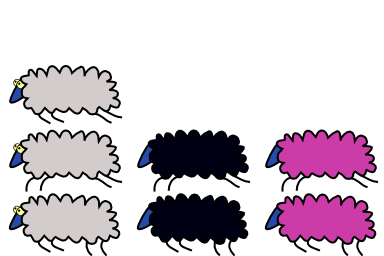
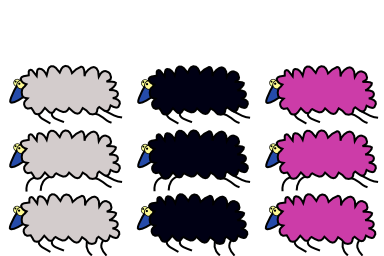
sheep jump and bump over and on a green wall. Counters on top just counts sheep that get from one side to the other. TODO: gameplay 8|

diff --git a/view.py b/view.py
@@ -25,15 +25,19 @@ class View:
         self.buttonUpSurf = pygame.image.load('arrowbutton.png')
         self.buttonDownSurf = pygame.transform.flip(self.buttonUpSurf, False, True)
 
+        self.wallSurf = pygame.image.load('wall.png')
+        self.wallRect = self.wallSurf.get_rect()
+        self.wallRect.midbottom = self.cloudRect.move(0, -self.cloudSurf.get_rect().height).midbottom
+
         self.sheepSurfaceSheet = pygame.image.load("sheep2.png")
         self.sheepSurfList = [[self.sheepSurfaceSheet.subsurface(pygame.Rect(128 * j, 64 * i, 128, 64))   for j in range(3)]  for i in range(4)]
 
 
         self.whiteSheepSurface1 = self.sheepSurfaceSheet.subsurface(pygame.Rect(0, 128, 128, 64))
         #self.whiteSheepSurface2 = self.sheepSurfaceSheet.subsurface(pygame.Rect(0, 64, 128, 64))
-        #self.blackSheepSurface1 = self.sheepSurfaceSheet.subsurface(pygame.Rect(128, 0, 128, 64))
+        self.blackSheepSurface1 = self.sheepSurfaceSheet.subsurface(pygame.Rect(128, 128, 128, 64))
         #self.blackSheepSurface2 = self.sheepSurfaceSheet.subsurface(pygame.Rect(128, 64, 128, 64))
-        #self.pinkSheepSurface1 = self.sheepSurfaceSheet.subsurface(pygame.Rect(256, 0, 128, 64))
+        self.pinkSheepSurface1 = self.sheepSurfaceSheet.subsurface(pygame.Rect(256, 128, 128, 64))
         #self.pinkSheepSurface2 = self.sheepSurfaceSheet.subsurface(pygame.Rect(256, 64, 128, 64))
 
         self.sheepIcons = []
@@ -81,21 +85,44 @@ class View:
 
     def nextLevel(self):
         # Setup icons
-        if self.game.level < 5:
-            # Setup sheep icon
-            sheepIconRect = self.whiteSheepSurface1.get_rect()
-            sheepIconRect.center = (self.screenSurface.get_rect().centerx,
+        if self.game.level < LEVEL_WHEN_BLACK_SHEEP_APPEAR:
+            sheepIconRect0 = self.whiteSheepSurface1.get_rect()
+            sheepIconRect0.center = (self.screenSurface.get_rect().centerx,
                                     self.screenSurface.get_rect().height / 5)
-            self.sheepIcons = [Icon(self.whiteSheepSurface1, sheepIconRect)]
+            self.sheepIcons = [Icon(self.whiteSheepSurface1, sheepIconRect0)]
+        elif self.game.level < LEVEL_WHEN_PINK_SHEEP_APPEAR:
+            sheepIconRect0 = self.whiteSheepSurface1.get_rect()
+            sheepIconRect0.center = (self.screenSurface.get_rect().centerx - sheepIconRect0.width ,
+                                    self.screenSurface.get_rect().height / 5)
+
+            sheepIconRect1 = self.blackSheepSurface1.get_rect()
+            sheepIconRect1.center = (self.screenSurface.get_rect().centerx + sheepIconRect1.width,
+                                    self.screenSurface.get_rect().height / 5)
+            self.sheepIcons = [Icon(self.whiteSheepSurface1, sheepIconRect0), Icon(self.blackSheepSurface1, sheepIconRect1)]
+        else:
+            sheepIconRect0 = self.whiteSheepSurface1.get_rect()
+            sheepIconRect0.center = (self.screenSurface.get_rect().centerx - sheepIconRect0.width * 2,
+                                    self.screenSurface.get_rect().height / 5)
+
+            sheepIconRect1 = self.blackSheepSurface1.get_rect()
+            sheepIconRect1.center = (self.screenSurface.get_rect().centerx,
+                                    self.screenSurface.get_rect().height / 5)
+
+            sheepIconRect2 = self.pinkSheepSurface1.get_rect()
+            sheepIconRect2.center = (self.screenSurface.get_rect().centerx + sheepIconRect2.width * 2,
+                                    self.screenSurface.get_rect().height / 5)
+            self.sheepIcons = [Icon(self.whiteSheepSurface1, sheepIconRect0),
+                               Icon(self.blackSheepSurface1, sheepIconRect1),
+                               Icon(self.pinkSheepSurface1, sheepIconRect2)]
 
             # Setup button icons
-            buttonUpRect = self.buttonUpSurf.get_rect()
-            buttonUpRect.midbottom = self.sheepIcons[0].rect.midtop
+            #buttonUpRect = self.buttonUpSurf.get_rect()
+            #buttonUpRect.midbottom = self.sheepIcons[0].rect.midtop
 
-            buttonDownRect = self.buttonDownSurf.get_rect()
-            buttonDownRect.midtop = self.sheepIcons[0].rect.midbottom
+            #buttonDownRect = self.buttonDownSurf.get_rect()
+            #buttonDownRect.midtop = self.sheepIcons[0].rect.midbottom
 
-            self.buttonIcons = [Icon(self.buttonUpSurf, buttonUpRect), Icon(self.buttonDownSurf, buttonDownRect)]
+            #self.buttonIcons = [Icon(self.buttonUpSurf, buttonUpRect), Icon(self.buttonDownSurf, buttonDownRect)]
 
     def renderGameFrame(self):
         self.screenSurface.fill(DARK_BLUE)
@@ -109,22 +136,50 @@ class View:
             xpos += self.cloudSurf.get_rect().width
 
         # Render buttons and icons
-        for button in self.buttonIcons:
-            self.screenSurface.blit(button.surf, button.rect)
+        #for button in self.buttonIcons:
+        #    self.screenSurface.blit(button.surf, button.rect)
         for sheep in self.sheepIcons:
             self.screenSurface.blit(sheep.surf, sheep.rect)
 
-        if self.game.level < 5:
-            sheepNumber = self.sheepCounterFont.render(str(self.game.whiteSheepCounter), True, (20, 60, 20))
+        if self.game.level >= LEVEL_WHEN_PINK_SHEEP_APPEAR:
+            sheepNumber = self.sheepCounterFont.render(str(self.game.correctSheepCount[2]), True, (20, 60, 20))
             sheepNumberRect = sheepNumber.get_rect()
-            sheepNumberRect.center = self.sheepIcons[0].rect.center
+            sheepNumberRect.center = self.sheepIcons[2].rect.center
             self.screenSurface.blit(sheepNumber, sheepNumberRect)
+        if self.game.level >= LEVEL_WHEN_BLACK_SHEEP_APPEAR:
+            sheepNumber = self.sheepCounterFont.render(str(self.game.correctSheepCount[1]), True, (20, 60, 20))
+            sheepNumberRect = sheepNumber.get_rect()
+            sheepNumberRect.center = self.sheepIcons[1].rect.center
+            self.screenSurface.blit(sheepNumber, sheepNumberRect)
+
+        sheepNumber = self.sheepCounterFont.render(str(self.game.correctSheepCount[0]), True, (20, 60, 20))
+        sheepNumberRect = sheepNumber.get_rect()
+        sheepNumberRect.center = self.sheepIcons[0].rect.center
+        self.screenSurface.blit(sheepNumber, sheepNumberRect)
+
+
+        # Render the wall
+        self.screenSurface.blit(self.wallSurf, self.wallRect)
 
         # Render all the moving sheep
         for sheep in self.game.sheepList:
             scrSize = self.screenSurface.get_rect().size
             sheepSurf = self.sheepSurfList[sheep.frame][sheep.color]
-            self.screenSurface.blit(sheepSurf, (sheep.relativePosx * scrSize[0], sheep.relativePosy * scrSize[1]))
+            if sheep.dir == SHEEP_MOVING_RIGHT:
+                sheepSurf = pygame.transform.flip(sheepSurf, True, False)
+            sw = sheepSurf.get_rect().width
+            sheepPos = (sheep.relativePosx * (scrSize[0] + sw) - sw , sheep.relativePosy * scrSize[1])
+            sheepRect = pygame.Rect(sheepPos, sheepSurf.get_rect().size)
+            self.screenSurface.blit(sheepSurf, sheepPos)
+
+            sheepHeadRect = sheepRect.inflate(-100, -20).move(sheep.dir * 50, 0)
+            sheepFeetRect = sheepRect.inflate(-40, -40).move(0 , 20)
+            #pygame.draw.rect(self.screenSurface, (0, 0, 0), sheepHeadRect, 2)
+            #pygame.draw.rect(self.screenSurface, (0, 0, 0), sheepFeetRect, 2)
+            if sheepHeadRect.colliderect(self.wallRect.inflate(-20, -20)):
+                sheep.bumpHead()
+            if sheepFeetRect.colliderect(self.wallRect.inflate(-20, -20)):
+                sheep.bumpFeet()
 
         pygame.display.update()
         self.fpsClock.tick(60)

diff --git a/game.py b/game.py
@@ -21,7 +21,7 @@ class Game(object):
 
 
     def newGame(self):
-        self.level = 0
+        self.level = 13
 
     def nextLevel(self):
         self.level += 1
@@ -40,31 +40,37 @@ class Game(object):
         for sheep in self.sheepList:
             sheep.tick(msSinceLastTick)
             if sheep.relativePosx < -0.1:
-                self.correctSheepCount[sheep.color] += 1
+                if sheep.cameFromTheRight:
+                    self.correctSheepCount[sheep.color] += 1
                 self.sheepList.remove(sheep)
 #                print self.correctSheepCount
             elif sheep.relativePosx > 1.1:
-                self.correctSheepCount[sheep.color] -= 1
+                if not sheep.cameFromTheRight:
+                    self.correctSheepCount[sheep.color] += 1
                 self.sheepList.remove(sheep)
 #                print self.correctSheepCount
         self.sheepTimer += msSinceLastTick
         self.trollTimer += msSinceLastTick
 
+        if self.level >= LEVEL_WHEN_SHEEP_MOVING_BACKWARDS:
+            startingDir = random.choice([SHEEP_MOVING_LEFT, SHEEP_MOVING_RIGHT])
+        else:
+            startingDir = SHEEP_MOVING_RIGHT
         if self.sheepTimer > self.nextSheep:
-            if self.level > LEVEL_WHEN_PINK_SHEEP_APPEAR:
-                newSheep = Sheep(SHEEP_MOVING_LEFT, random.choice([SHEEP_WHITE, SHEEP_BLACK, SHEEP_PINK]))
-            elif self.level > LEVEL_WHEN_BLACK_SHEEP_APPEAR:
-                newSheep = Sheep(SHEEP_MOVING_LEFT, random.choice([SHEEP_WHITE, SHEEP_BLACK]))
+            if self.level >= LEVEL_WHEN_PINK_SHEEP_APPEAR:
+                newSheep = Sheep(startingDir, random.choice([SHEEP_WHITE, SHEEP_BLACK, SHEEP_PINK]))
+            elif self.level >= LEVEL_WHEN_BLACK_SHEEP_APPEAR:
+                newSheep = Sheep(startingDir, random.choice([SHEEP_WHITE, SHEEP_BLACK]))
             else:
-                newSheep = Sheep(SHEEP_MOVING_LEFT, SHEEP_WHITE)
+                newSheep = Sheep(startingDir, SHEEP_WHITE)
             self.sheepList.append(newSheep)
             self.sheepTimer = 0
             self.nextSheep = random.gauss(1000 * 4.0 / self.level, 500.0 / self.level)
 
         if self.trollsAppeared < self.level / 4 - 1:
-            if self.trollCounter > self.timeUntilTroll:
+            if self.trollTimer > self.timeUntilTroll:
                 self.trollTimer = 0
-                selt.trollsAppeared += 1
+                self.trollsAppeared += 1
                 print "TROLOL"
 
 

diff --git a/sheep.py b/sheep.py
@@ -14,19 +14,24 @@ class Sheep(object):
     def __init__(self, dir=SHEEP_MOVING_LEFT, color=SHEEP_WHITE):
         # Set direction, and speed of movement.
         self.dir = dir
+        self.cameFromTheRight = (dir == SHEEP_MOVING_LEFT)
         self.color = color
         self.speedy = 0
-        self.speedx = random.gauss(0.20, 0.04)        #speed in screens/second (e.g. 800px/secons)
-        self.relativePosy = 0.5
+        self.speedx = dir * random.gauss(0.20, 0.04)        #speed in screens/second (e.g. 800px/secons)
+        self.relativePosy = min(0.5, 0.5 - random.gauss(0.2, 0.07))
+
         if self.dir == SHEEP_MOVING_LEFT:
             self.relativePosx = 1
+            self.placeToJump = random.gauss(0.7, 0.05)
         else:
             self.relativePosx = 0
+            self.placeToJump = random.gauss(0.3, 0.05)
         self._counter = 0
         self.frame = 0
 
         # Sound effects
         self.sheepJumpSound = pygame.mixer.Sound('sheepjump.wav')
+        self.sheepBumpSound = pygame.mixer.Sound('sheepbump.wav')
 
 
     def tick(self, msSinceLastTick):
@@ -38,15 +43,26 @@ class Sheep(object):
         else:
             self.frame = 2 + self._counter / 500
 
-        self.relativePosx += self.dir * self.speedx * msSinceLastTick / 1000.0
+        self.relativePosx += self.speedx * msSinceLastTick / 1000.0
         self.relativePosy += self.speedy * msSinceLastTick / 1000.0
         if self.relativePosy > 0.5 and self.speedy > 0:
             self.relativePosy = 0.5
             self.speedy = 0
 
-        if self.relativePosx < 0.65 and self.relativePosx > 0.55 and self.relativePosy == 0.5:
-            self.speedy = -random.gauss(0.40, 0.06)
-            self.sheepJumpSound.play()
+        if self.relativePosx < self.placeToJump + 0.05 and self.relativePosx > self.placeToJump - 0.05 and self.relativePosy == 0.5:
+            # Don't jump on the way back (if coming back from bumping into the wall)
+            if self.cameFromTheRight == (self.dir == SHEEP_MOVING_LEFT):
+                self.speedy = -random.gauss(0.40, 0.06)
+                self.sheepJumpSound.play()
+
+    def bumpHead(self):
+        self.dir = -self.dir
+        self.speedx = -self.speedx
+        #self.sheepBumpSound.play()
+
+    def bumpFeet(self):
+        self.speedy = -abs(self.speedy) - 0.05
+        #self.sheepBumpSound.play()
 
 
 
